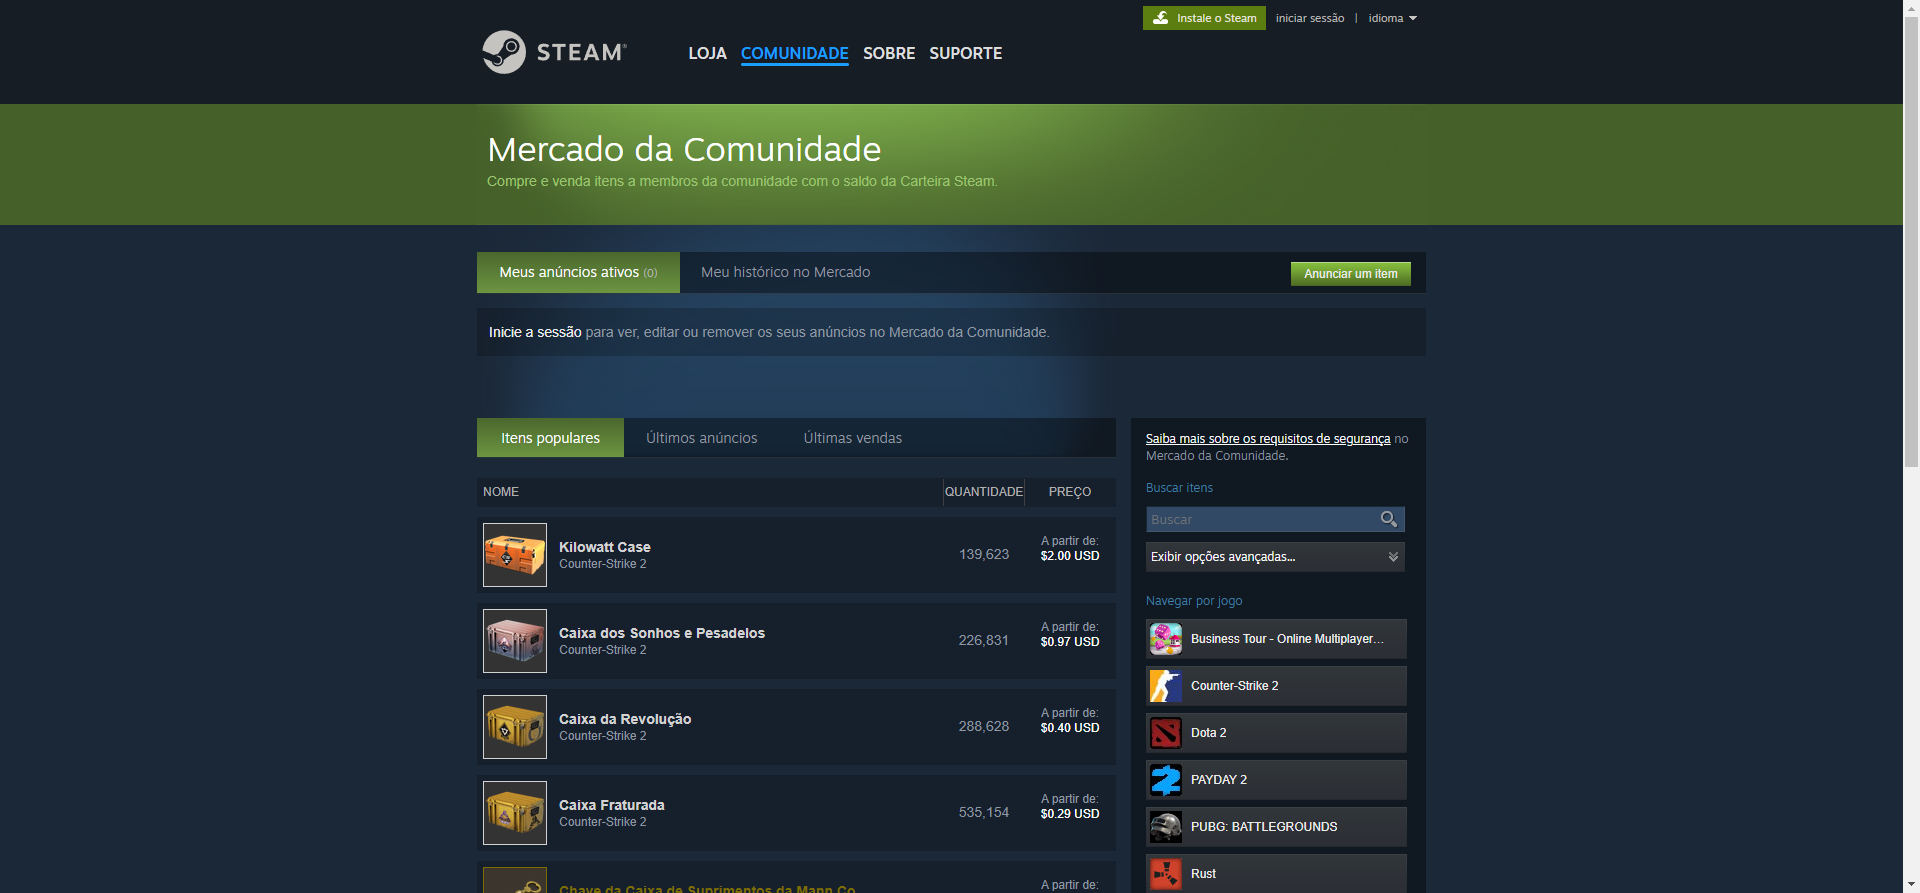
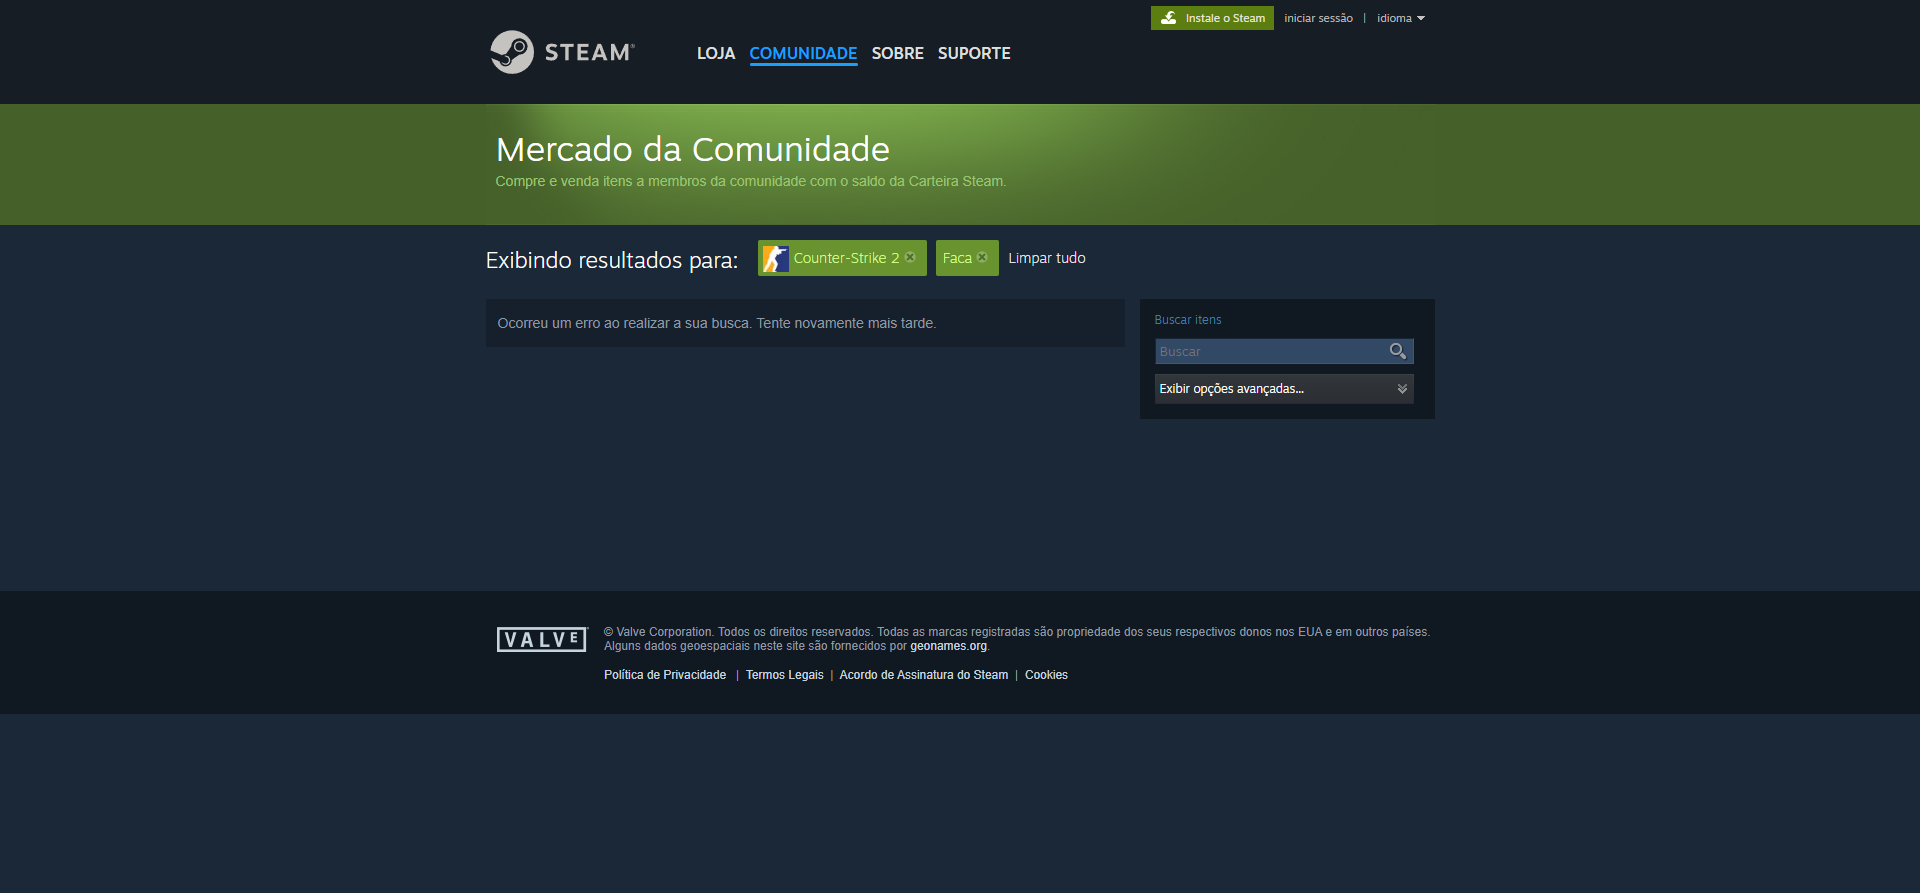
Criação da classe SteamSteps e ajustes dos métodos

diff --git a/src/test/java/Steps/SteamSteps.java b/src/test/java/Steps/SteamSteps.java
@@ -1,0 +1,129 @@
+package Steps;
+
+import Commons.SteamCommons;
+import Maps.SteamMaps;
+import Pages.BuscarNoMercadoDaComunidadePO;
+import Pages.MercadoComunidadePO;
+import Suporte.EnviarEmail;
+import org.openqa.selenium.By;
+import org.openqa.selenium.Keys;
+import org.openqa.selenium.WebDriver;
+import org.openqa.selenium.interactions.Actions;
+import org.openqa.selenium.support.ui.ExpectedConditions;
+import org.openqa.selenium.support.ui.Select;
+
+public class SteamSteps extends SteamMaps {
+    public SteamSteps(WebDriver driver) {
+        super(driver);
+    }
+
+    public SteamSteps clicarNaOpcaoMercadoComunidade(){
+        new Actions(driver).moveToElement(menuComunidade).perform();
+        wait.until(ExpectedConditions.visibilityOf(menuMercado));
+        menuMercado.click();
+
+        return this;
+    }
+
+    public SteamSteps escolherTipoDeProdutoQueVaiSerPesquisa(String tipoSkin){
+        new SteamCommons(driver).darScrollComandoJavascript();
+
+        wait.until(ExpectedConditions.visibilityOf(btnExibirOpcoesDetalhadas));
+        btnExibirOpcoesDetalhadas.click();
+
+        wait.until(ExpectedConditions.visibilityOf(campoSelecionar));
+        campoSelecionar.click();
+
+        wait.until(ExpectedConditions.visibilityOf(campoSelecioneJogo));
+        campoSelecioneJogo.findElement(By.id("app_option_730")).click();
+
+        new Select(campoSelecioneFaca).selectByValue(tipoSkin);
+        wait.until(ExpectedConditions.visibilityOf(campoSelecioneFaca));
+        campoSelecioneFaca.click();
+
+        wait.until(ExpectedConditions.visibilityOf(btnBuscar.get(2)));
+        btnBuscar.get(2).click();
+
+        return this;
+    }
+
+    public boolean comprarSkin;
+
+    public static String nomeItem;
+    public static String valorItem;
+    public static String linkItem;
+    public static int valorItemTratado;
+
+
+    public SteamSteps ordernarPeloMenorPreco(){
+
+        String nomePrimeiraSkin = listaNomesSkinSemFiltro.getText();
+
+        wait.until(ExpectedConditions.visibilityOf(ordernarpreco));
+        ordernarpreco.click();
+
+        wait.until(ExpectedConditions.refreshed(ExpectedConditions.invisibilityOfElementWithText(By.id("result_0_name"),nomePrimeiraSkin)));
+
+        return this;
+    }
+
+    public SteamSteps buscarSkin(String nomeSkin){
+
+        wait.until(ExpectedConditions.visibilityOf(campoPesquisa));
+        campoPesquisa.sendKeys(nomeSkin);
+        campoPesquisa.sendKeys(Keys.ENTER);
+
+        try {
+            Thread.sleep(2000);
+        }catch (Exception e){
+            System.out.println("Erro ao esperar 2s");
+        }
+
+        return this;
+    }
+
+    public boolean validarValorDaSkin(){
+        comprarSkin = false;
+
+        nomeItem = nomeSkinMaisBarata.getText();
+        System.out.println("Nome da Skin: " + nomeSkinMaisBarata.getText());
+        System.out.println("Link da imagem da Skin: " + listaImagens.get(0).getAttribute("src"));
+
+        valorItem = listaPrecos.get(0).getText();
+        System.out.println("Skin mais barata custa: " + listaPrecos.get(0).getText());
+
+        linkItem = listaLinks.get(0).getAttribute("href");
+        System.out.println("Link para comprar: " + listaLinks.get(0).getAttribute("href"));
+
+        valorItemTratado = tratarValorSkin(listaPrecos.get(0).getText());
+
+        if (tratarValorSkin(listaPrecos.get(0).getText()) <= 3000){
+            System.out.println("Valor da Skin é MENOR OU IGUAL que 30 dolares (150 reais)");
+
+            EnviarEmail.enviarEmail(nomeItem,valorItem,linkItem);
+
+            comprarSkin = true;
+
+        }else{
+            System.out.println("Valor da Skin é MAIOR que 30 dolares (150 reais)");
+            comprarSkin = false;
+        }
+
+        return comprarSkin;
+    }
+
+
+    public int tratarValorSkin(String preco){
+
+        preco = preco.replace(" ", "");
+        preco = preco.replace("$", "");
+        preco = preco.replace("USD", "");
+        preco = preco.replace(",", "");
+        preco = preco.replace(".", "");
+
+        int valor = Integer.parseInt(preco);
+
+        return valor;
+    }
+
+}

diff --git a/src/test/java/tests/T001KnivesTest.java b/src/test/java/tests/T001KnivesTest.java
@@ -1,5 +1,6 @@
 package tests;
 
+import Steps.SteamSteps;
 import Suporte.CreateDriver;
 import Suporte.Screenshot;
 import org.junit.*;
@@ -14,11 +15,14 @@ public class T001KnivesTest {
 
    private WebDriver driver;
     Screenshot screenshot;
+     SteamSteps steamSteps;
+
 
     @BeforeMethod
     public void setUp() {
         CreateDriver cd = new CreateDriver(driver);
         driver = cd.createWebdriverGoogleChrome();
+        steamSteps = new SteamSteps(driver);
         driver.get("https://steamcommunity.com/market");
         screenshot = new Screenshot(driver);
 
@@ -27,11 +31,11 @@ public class T001KnivesTest {
 
     @Test
     public void validarPrecoDasFacas(){
-            boolean comprarSkin =
-           new HomeSteamPO(driver)
+        boolean comprarSkin =
+        steamSteps
             .clicarNaOpcaoMercadoComunidade()
             .escolherTipoDeProdutoQueVaiSerPesquisa("tag_CSGO_Type_Knife") //tag_weapon_ak47 tag_730_Type_CSGO_Type_Knife
-           .ordernarPeloMenorPreco()
+            .ordernarPeloMenorPreco()
             .validarValorDaSkin();
         Assert.assertFalse(comprarSkin);
 
